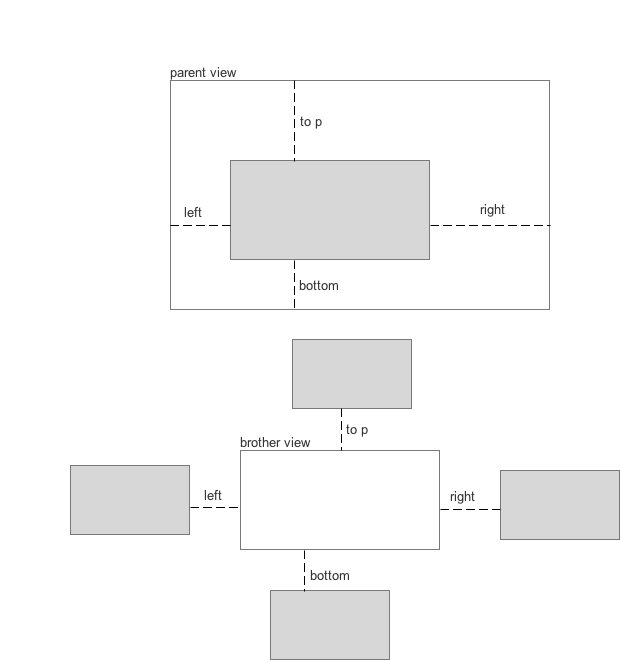
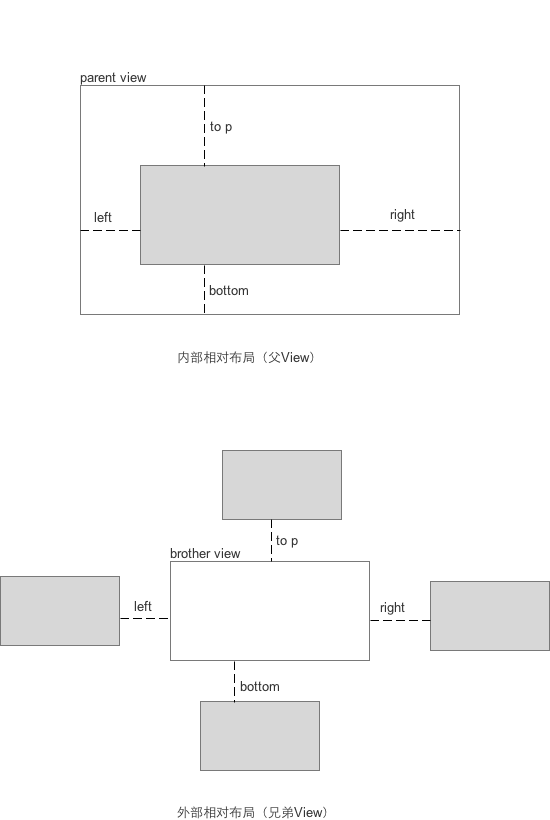
更新相对布局文档

diff --git a/MyProject/MyProject/文档/相对布局方案.md b/MyProject/MyProject/文档/相对布局方案.md
@@ -1,0 +1,107 @@
+
+# 相对布局简便方案
+
+## ios布局的通常方案
+
+* 直接指定frame
+* 设置autoresizingMask
+* 使用AutoLayout，NSLayoutConstraint
+* 使用第三方框架，如Masonry，
+
+## 各方案的问题
+
+### 直接指定frame
+
+	_timeLab = [[UILabel alloc] initWithFrame:CGRectMake(0, 0, 100, 20)];
+
+问题：魔法数Magic Number乱飞，不知各数之间的关联性，不易维护调整
+
+### 设置autoresizingMask
+
+	_tableView = [[UITableView alloc] initWithFrame:CGRectMake(0, self.dateScrollView.bottom, APP_SCREEN_WIDTH, self.view.height-self.dateScrollView.height) style:UITableViewStyleGrouped];
+	_tableView.autoresizingMask = UIViewAutoresizingFlexibleHeight;
+
+用法：与frame组合，自动调整与父view的相对位置。
+
+问题：有frame的缺点；只能是父view。
+
+### 使用AutoLayout，NSLayoutConstraint
+
+	view1.translatesAutoresizingMaskIntoConstraints = NO;
+
+	NSDictionary *views = NSDictionaryOfVariableBindings(view1, view2);
+	NSArray* constraints1 = [NSLayoutConstraint constraintsWithVisualFormat:@"H:|-[view1]-|" options:0 metrics:nil views:views];
+	NSArray *constraints2=[NSLayoutConstraint constraintsWithVisualFormat:@"V:|-20-[view1]-20-|" options:0 metrics:nil views:views];
+
+	[parent addConstraints:constraints1];
+	[parent addConstraints:constraints2];
+
+	另一种创建方法：
+	[NSLayoutConstraint constraintWithItem:view1
+	                             attribute:NSLayoutAttributeTop
+	                             relatedBy:NSLayoutRelationEqual
+	                                toItem:superview
+	                             attribute:NSLayoutAttributeTop
+	                            multiplier:1.0
+	                              constant:padding.top]
+
+用法：添加NSLayoutConstraint
+
+问题：易错的VFL；较高的学习门槛；一次添加一条constraint，需较多语句，书写麻烦
+
+### Masonry
+
+Masonry提供更加完善、友好的API来代替直接使用NSLayoutConstraint进行编程，能够使视图布局的过程更加轻松。直接利用NSLayoutConstraint进行编程需要几十行代码，而利用Masonry，代码数量减少了起码三分之二。
+
+	UIEdgeInsets padding = UIEdgeInsetsMake(10, 10, 10, 10);
+
+	[view1 mas_makeConstraints:^(MASConstraintMaker *make) {
+	    make.top.equalTo(superview.mas_top).with.offset(padding.top); //with is an optional semantic filler
+	    make.left.equalTo(superview.mas_left).with.offset(padding.left);
+	    make.bottom.equalTo(superview.mas_bottom).with.offset(-padding.bottom);
+	    make.right.equalTo(superview.mas_right).with.offset(-padding.right);
+	}];
+
+	更短的写法：
+	[view1 mas_makeConstraints:^(MASConstraintMaker *make) {
+	    make.edges.equalTo(superview).with.insets(padding);
+	}];
+
+	//these two constraints are exactly the same
+	make.left.greaterThanOrEqualTo(label);
+	make.left.greaterThanOrEqualTo(label.mas_left);
+
+	//width >= 200 && width <= 400
+	make.width.greaterThanOrEqualTo(@200);
+	make.width.lessThanOrEqualTo(@400)
+
+	等等……
+
+优点：功能强大，书写较简便
+
+问题：有相当的学习门槛；js的书写方式，有一定适应难度
+
+## 简单的相对布局方案
+
+![image](https://github.com/liangqiang/AJFramework/blob/master/MyProject/MyProject/文档/home.png)
+
+## NSLayoutConstraint constraintsWithVisualFormat
+
+* 定义
+
+    /* Create an array of constraints using an ASCII art-like visual format string.
+    */
+    + (NSArray *)constraintsWithVisualFormat:(NSString *)format options:(NSLayoutFormatOptions)opts metrics:(NSDictionary *)metrics views:(NSDictionary *)views;
+
+## VFL
+* "|"表示super view
+* H表示横向，V表示纵向
+* 方括号[]表示view
+* 圆括号()表示尺寸数字，支持大于、小于、等于，或另一个view
+* 优先级用@表示  
+UILayoutPriorityRequired  
+UILayoutPriorityDefaultHigh  
+UILayoutPriorityDefaultLow  
+UILayoutPriorityFittingSizeLevel  
+
+

diff --git a/MyProject/MyProject/文档/md文件格式.md b/MyProject/MyProject/文档/md文件格式.md
@@ -41,6 +41,7 @@
 
 ![image](https://github.com/ButBueatiful/dotvim/raw/master/screenshots/vim-screenshot.jpg)
 
+![image](https://github.com/liangqiang/AJFramework/blob/master/MyProject/MyProject/文档/home.png)
 
 1. Sublime 安装Markdown Preview
 
